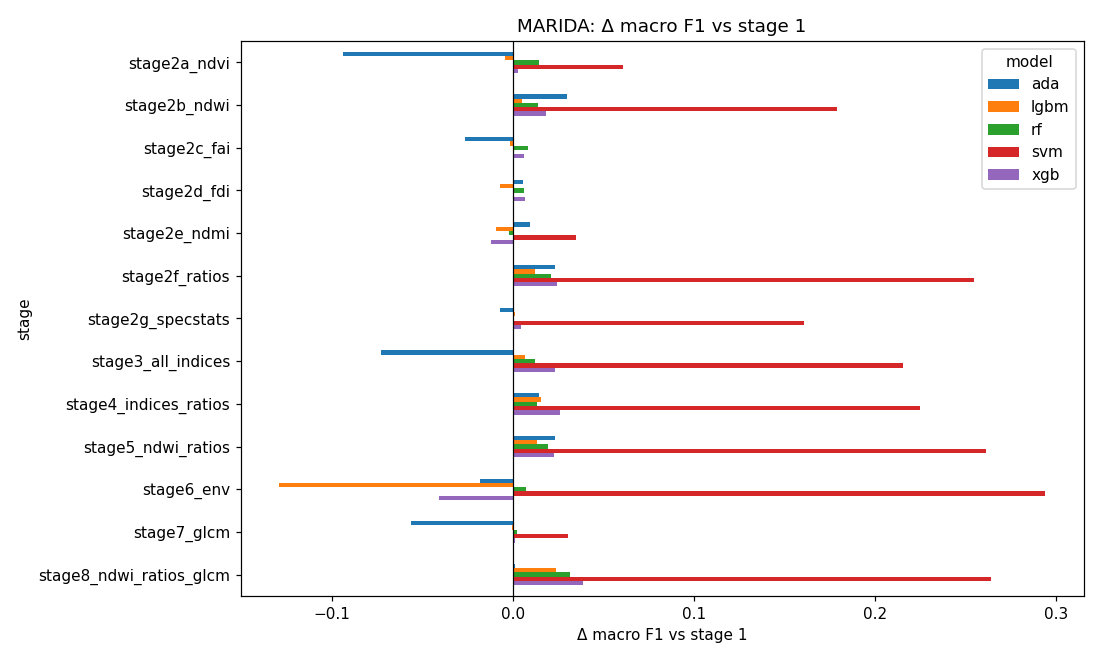
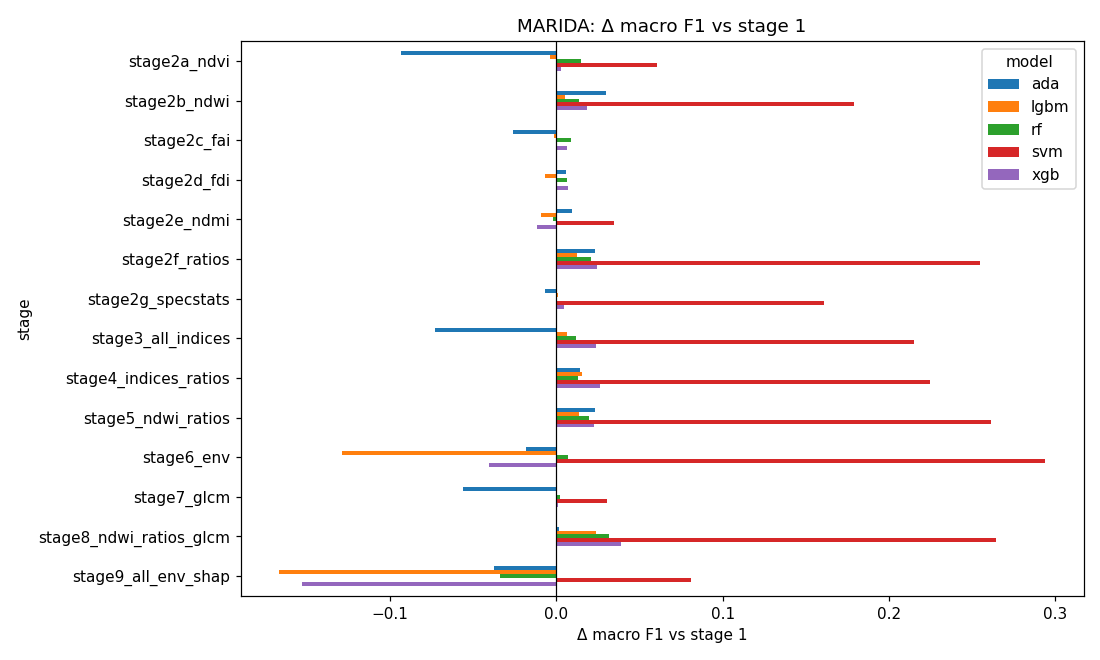
log_weights comparison: add stage 9

diff --git a/outputs/staged/log_weights/comparison/comparison.md b/outputs/staged/log_weights/comparison/comparison.md
@@ -213,6 +213,7 @@ Scores over classes 1-4 on all annotated test pixels (macro = mean over the 4 cl
 | stage6_env | 0.7795 (-0.0180) | 0.7324 (-0.1290) | 0.8921 (+0.0072) | 0.8770 (+0.2940) | 0.8036 (-0.0405) | +0.0228 |
 | stage7_glcm | 0.7415 (-0.0560) | 0.8612 (-0.0002) | 0.8872 (+0.0023) | 0.6134 (+0.0303) | 0.8454 (+0.0013) | -0.0045 |
 | stage8_ndwi_ratios_glcm | 0.7988 (+0.0013) | 0.8855 (+0.0241) | 0.9165 (+0.0316) | 0.8472 (+0.2641) | 0.8828 (+0.0387) | +0.0719 |
+| stage9_all_env_shap | 0.7602 (-0.0373) | 0.6946 (-0.1667) | 0.8508 (-0.0341) | 0.6640 (+0.0810) | 0.6909 (-0.1532) | -0.0621 |
 
 ### Macro IoU
 
@@ -235,6 +236,7 @@ Scores over classes 1-4 on all annotated test pixels (macro = mean over the 4 cl
 | stage6_env | 0.6820 (-0.0336) | 0.6322 (-0.1464) | 0.8196 (+0.0094) | 0.7999 (+0.3126) | 0.7067 (-0.0509) | +0.0182 |
 | stage7_glcm | 0.6591 (-0.0565) | 0.7792 (+0.0006) | 0.8149 (+0.0047) | 0.5122 (+0.0249) | 0.7587 (+0.0011) | -0.0050 |
 | stage8_ndwi_ratios_glcm | 0.7105 (-0.0051) | 0.8081 (+0.0295) | 0.8551 (+0.0448) | 0.7466 (+0.2593) | 0.8036 (+0.0461) | +0.0749 |
+| stage9_all_env_shap | 0.6655 (-0.0501) | 0.6143 (-0.1643) | 0.7616 (-0.0486) | 0.5468 (+0.0595) | 0.5975 (-0.1600) | -0.0727 |
 
 ### F1 Marine Debris
 
@@ -257,6 +259,7 @@ Scores over classes 1-4 on all annotated test pixels (macro = mean over the 4 cl
 | stage6_env | 0.5620 (+0.1302) | 0.4629 (-0.2348) | 0.7910 (+0.0491) | 0.7210 (+0.5978) | 0.7492 (+0.1038) | +0.1292 |
 | stage7_glcm | 0.2920 (-0.1399) | 0.6826 (-0.0150) | 0.7196 (-0.0223) | 0.1738 (+0.0506) | 0.6358 (-0.0096) | -0.0273 |
 | stage8_ndwi_ratios_glcm | 0.4880 (+0.0562) | 0.7783 (+0.0806) | 0.8311 (+0.0892) | 0.7446 (+0.6214) | 0.7739 (+0.1285) | +0.1952 |
+| stage9_all_env_shap | 0.6779 (+0.2460) | 0.7159 (+0.0183) | 0.7033 (-0.0387) | 0.3247 (+0.2014) | 0.7318 (+0.0864) | +0.1027 |
 
 ### IoU Marine Debris
 
@@ -279,6 +282,7 @@ Scores over classes 1-4 on all annotated test pixels (macro = mean over the 4 cl
 | stage6_env | 0.3909 (+0.1155) | 0.3011 (-0.2346) | 0.6543 (+0.0645) | 0.5637 (+0.4980) | 0.5990 (+0.1225) | +0.1132 |
 | stage7_glcm | 0.1709 (-0.1045) | 0.5182 (-0.0175) | 0.5620 (-0.0277) | 0.0952 (+0.0295) | 0.4661 (-0.0104) | -0.0261 |
 | stage8_ndwi_ratios_glcm | 0.3228 (+0.0474) | 0.6370 (+0.1013) | 0.7111 (+0.1213) | 0.5932 (+0.5275) | 0.6312 (+0.1548) | +0.1904 |
+| stage9_all_env_shap | 0.5127 (+0.2373) | 0.5576 (+0.0219) | 0.5423 (-0.0475) | 0.1938 (+0.1281) | 0.5771 (+0.1006) | +0.0881 |
 
 ### F1 Algae/Sargassum
 
@@ -298,6 +302,7 @@ Scores over classes 1-4 on all annotated test pixels (macro = mean over the 4 cl
 | stage6_env | 0.9555 (-0.0088) | 0.9309 (-0.0428) | 0.9827 (+0.0027) | 0.9790 (+0.5163) | 0.9307 (-0.0388) | +0.0857 |
 | stage7_glcm | 0.9456 (-0.0187) | 0.9750 (+0.0013) | 0.9793 (-0.0007) | 0.5188 (+0.0561) | 0.9606 (-0.0089) | +0.0058 |
 | stage8_ndwi_ratios_glcm | 0.9654 (+0.0011) | 0.9644 (-0.0093) | 0.9868 (+0.0068) | 0.8214 (+0.3587) | 0.9582 (-0.0113) | +0.0692 |
+| stage9_all_env_shap | 0.9487 (-0.0156) | 0.9482 (-0.0256) | 0.9525 (-0.0275) | 0.7281 (+0.2653) | 0.8751 (-0.0944) | +0.0204 |
 
 ### IoU Algae/Sargassum
 
@@ -317,6 +322,7 @@ Scores over classes 1-4 on all annotated test pixels (macro = mean over the 4 cl
 | stage6_env | 0.9147 (-0.0164) | 0.8708 (-0.0781) | 0.9660 (+0.0053) | 0.9590 (+0.6579) | 0.8704 (-0.0704) | +0.0997 |
 | stage7_glcm | 0.8969 (-0.0342) | 0.9512 (+0.0024) | 0.9594 (-0.0013) | 0.3503 (+0.0493) | 0.9242 (-0.0166) | -0.0001 |
 | stage8_ndwi_ratios_glcm | 0.9332 (+0.0021) | 0.9313 (-0.0176) | 0.9740 (+0.0133) | 0.6970 (+0.3959) | 0.9198 (-0.0211) | +0.0745 |
+| stage9_all_env_shap | 0.9024 (-0.0287) | 0.9015 (-0.0474) | 0.9093 (-0.0514) | 0.5724 (+0.2714) | 0.7779 (-0.1629) | -0.0038 |
 
 ### Class accuracy Water (TP / class pixels)
 
@@ -336,6 +342,7 @@ Scores over classes 1-4 on all annotated test pixels (macro = mean over the 4 cl
 | stage6_env | 0.9878 (-0.0065) | 0.9832 (-0.0120) | 0.9974 (-0.0002) | 0.9973 (+0.0306) | 0.9867 (-0.0082) | +0.0007 |
 | stage7_glcm | 0.9894 (-0.0048) | 0.9953 (+0.0001) | 0.9982 (+0.0006) | 0.9699 (+0.0031) | 0.9950 (+0.0001) | -0.0002 |
 | stage8_ndwi_ratios_glcm | 0.9912 (-0.0030) | 0.9954 (+0.0001) | 0.9982 (+0.0006) | 0.9924 (+0.0256) | 0.9953 (+0.0004) | +0.0047 |
+| stage9_all_env_shap | 0.9771 (-0.0172) | 0.9115 (-0.0838) | 0.9974 (-0.0002) | 0.9778 (+0.0110) | 0.9286 (-0.0663) | -0.0313 |
 
 ### Class accuracy Marine Debris (TP / class pixels)
 
@@ -358,6 +365,7 @@ Scores over classes 1-4 on all annotated test pixels (macro = mean over the 4 cl
 | stage6_env | 0.8976 (+0.0577) | 0.9081 (-0.0367) | 0.8793 (+0.0000) | 0.9291 (+0.5984) | 0.9370 (+0.0079) | +0.1255 |
 | stage7_glcm | 0.6142 (-0.2257) | 0.9344 (-0.0105) | 0.8084 (-0.0709) | 0.4724 (+0.1417) | 0.9370 (+0.0079) | -0.0315 |
 | stage8_ndwi_ratios_glcm | 0.9081 (+0.0682) | 0.9396 (-0.0052) | 0.9108 (+0.0315) | 0.9108 (+0.5801) | 0.9344 (+0.0052) | +0.1360 |
+| stage9_all_env_shap | 0.9003 (+0.0604) | 0.8898 (-0.0551) | 0.7060 (-0.1732) | 0.7874 (+0.4567) | 0.8845 (-0.0446) | +0.0488 |
 
 ### Class accuracy Algae/Sargassum (TP / class pixels)
 
@@ -377,6 +385,7 @@ Scores over classes 1-4 on all annotated test pixels (macro = mean over the 4 cl
 | stage6_env | 0.9415 (-0.0055) | 0.8830 (-0.0780) | 0.9689 (+0.0006) | 0.9823 (+0.0116) | 0.8800 (-0.0792) | -0.0301 |
 | stage7_glcm | 0.9433 (-0.0037) | 0.9628 (+0.0018) | 0.9640 (-0.0043) | 0.9817 (+0.0110) | 0.9512 (-0.0079) | -0.0006 |
 | stage8_ndwi_ratios_glcm | 0.9701 (+0.0232) | 0.9744 (+0.0134) | 0.9799 (+0.0116) | 0.9951 (+0.0244) | 0.9640 (+0.0049) | +0.0155 |
+| stage9_all_env_shap | 0.9129 (-0.0341) | 0.9086 (-0.0524) | 0.9098 (-0.0585) | 0.9659 (-0.0049) | 0.7812 (-0.1779) | -0.0656 |
 
 ### Class accuracy Other (TP / class pixels)
 
@@ -396,4 +405,5 @@ Scores over classes 1-4 on all annotated test pixels (macro = mean over the 4 cl
 | stage6_env | 0.8559 (+0.0540) | 0.8615 (-0.0130) | 0.8137 (-0.0093) | 0.7994 (+0.1155) | 0.8584 (+0.0050) | +0.0304 |
 | stage7_glcm | 0.8708 (+0.0689) | 0.8832 (+0.0087) | 0.8385 (+0.0155) | 0.7776 (+0.0938) | 0.8764 (+0.0230) | +0.0420 |
 | stage8_ndwi_ratios_glcm | 0.8745 (+0.0727) | 0.9062 (+0.0317) | 0.8460 (+0.0230) | 0.8652 (+0.1814) | 0.9149 (+0.0615) | +0.0740 |
+| stage9_all_env_shap | 0.8571 (+0.0553) | 0.8354 (-0.0391) | 0.7801 (-0.0429) | 0.8311 (+0.1472) | 0.8615 (+0.0081) | +0.0257 |
 
